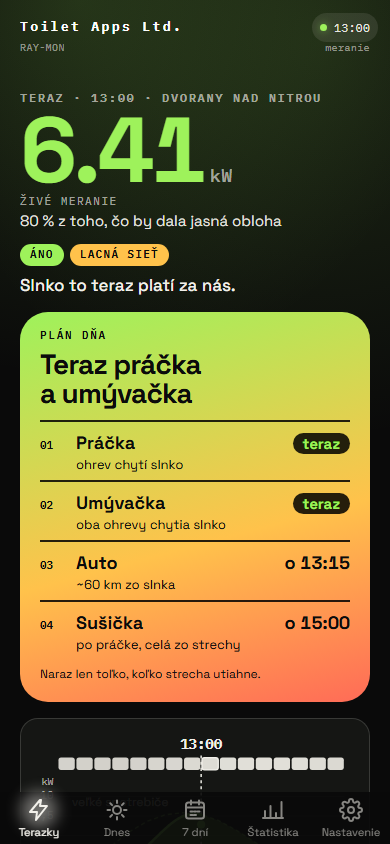
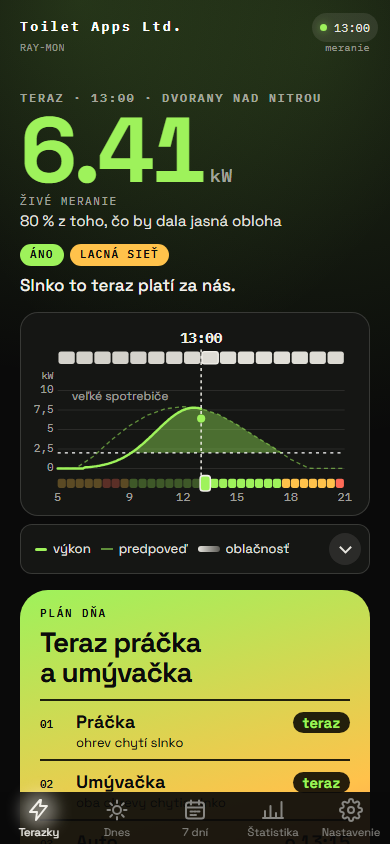
feat: Terazky – časová os prvá, Plán dňa pod ňou (#370)
## Čo sa mení

Len súčasná appka, karta Terazky: časová os (graf dňa so zoznamom) je
prvá, Plán dňa pod ňou.
V `index.html` sa presunul blok `#tz-plan` za `#tz-plot`. Na širokej
obrazovke sa rozloženie
nemení – Plán dňa je v pravom stĺpci mriežky (umiestnený podľa stĺpca,
nie poradia v HTML).

Nová appka (`obloha/`) sa nemení.

## Overenie

- `npm run check` zelené
- e2e testy karty Terazky (vrátane `.hidden` a širokej obrazovky) prešli
- ručne v prehliadači na mobile
- `npm run screenshots` – zmenil sa len `docs/img/terazky.png`

🤖 Generated with [Claude Code](https://claude.com/claude-code)

diff --git a/index.html b/index.html
@@ -187,9 +187,6 @@
                     </div>
                     <button type="button" id="tz-retry" class="tz-retry hidden"></button>
                 </div>
-                <!-- Plán dňa ako plagát: veta, očíslované riadky a pätka (docs/navrhy/terazky-plan-dna.html,
-                     možnosť A). Obsah skladá render (web/render/terazky.js). -->
-                <section id="tz-plan" class="tz-plan hidden" aria-labelledby="tz-plan-title"></section>
                 <div id="tz-plot" class="tz-plot hidden">
                     <div
                         id="tz-chart"
@@ -219,6 +216,10 @@
                         </div>
                     </div>
                 </div>
+                <!-- Plán dňa ako plagát: veta, očíslované riadky a pätka (docs/navrhy/terazky-plan-dna.html,
+                     možnosť A). Na mobile stojí pod časovou osou, na šírku v pravom stĺpci. Obsah skladá
+                     render (web/render/terazky.js). -->
+                <section id="tz-plan" class="tz-plan hidden" aria-labelledby="tz-plan-title"></section>
             </section>
 
             <!-- PANEL: 7 DNÍ -->
